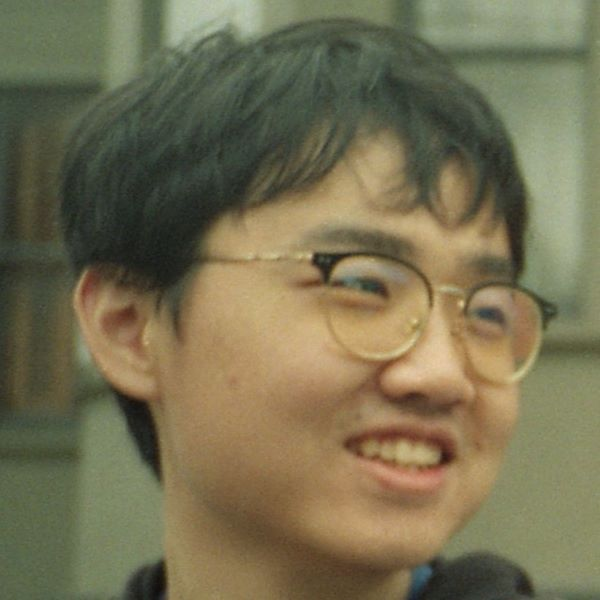
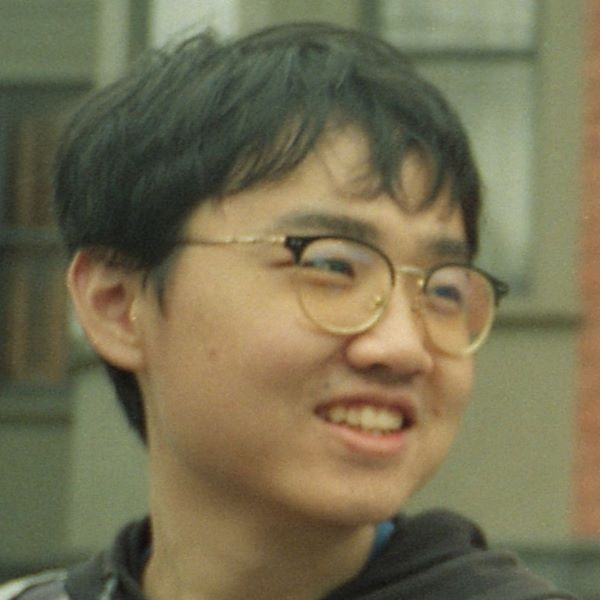
Site updated: 2024-02-05 12:34:10

diff --git a/Experience/index.html b/Experience/index.html
@@ -1,5 +1,5 @@
 <!DOCTYPE html><html lang="en"><head><meta charset="UTF-8"><meta http-equiv="X-UA-Compatible" content="IE=edge"><meta name="viewport" content="width=device-width, initial-scale=1, maximum-scale=5"><title>Fang Chen (谌放)</title><meta name="author" content="Fang Chen"><link rel="shortcut icon" href="/img/favicon.png"><link rel="stylesheet" href="/css/index.css"><link rel="stylesheet" href="https://cdn.jsdelivr.net/npm/font-awesome@latest/css/font-awesome.min.css"><link rel="stylesheet" href="https://cdn.jsdelivr.net/npm/@fortawesome/fontawesome-free@5.13.0/css/all.min.css"><meta name="generator" content="Hexo 7.1.1"><link rel="alternate" href="/atom.xml" title="Fang Chen (谌放)" type="application/atom+xml">
-</head><body><header id="page_header"><div class="header_wrap"><div id="blog_name"><a class="blog_title" id="site-name" href="/">Fang Chen (谌放)</a></div><button class="menus_icon"><div class="navicon"></div></button><ul class="menus_items"><li class="menus_item"><a class="site-page" href="/Publications"> Publications</a></li><li class="menus_item"><a class="site-page" href="/Experience"> Experience</a></li><li class="menus_item"><a class="site-page" href="/Teaching"> Teaching</a></li></ul></div></header><main id="page_main"><div class="side-card sticky"><div class="card-wrap" itemscope itemtype="http://schema.org/Person"><div class="author-avatar"><img class="avatar-img" src="/img/profile_new.jpg" onerror="this.onerror=null;this.src='/img/profile_new.jpg'" alt="avatar"></div><div class="author-discrip"><h3>Fang Chen</h3><p class="author-bio">Ph.D. student @ University of California Merced</p></div><div class="author-links"><button class="btn m-social-links">Links</button><ul class="social-icons"><li><a class="social-icon" href="https://github.com/C-Fun" target="_blank"><i class="fab fa-github" aria-hidden="true"></i></a></li><li><a class="social-icon" href="https://www.linkedin.com/in/cfun/" target="_blank"><i class="fab fa-linkedin" aria-hidden="true"></i></a></li><li><a class="social-icon" href="mailto:fchen20@ucmerced.edu" target="_blank"><i class="fas fa-envelope" aria-hidden="true"></i></a></li></ul><ul class="social-links"><li><a class="e-social-link" href="https://scholar.google.com/citations?user=5Hu8vwwAAAAJ&amp;hl=en&amp;authuser=1" target="_blank"><i class="fas fa-graduation-cap" aria-hidden="true"></i><span>Google Scholar</span></a></li></ul></div><a class="cv-links" href="/attaches/CV.pdf" target="_blank"><i class="fas fa-file-pdf" aria-hidden="true"><span>My Curriculum Vitae</span></i></a></div></div><div class="page" itemscope itemtype="http://schema.org/CreativeWork"><h2 class="page-title">Experience</h2><article><ul>
+</head><body><header id="page_header"><div class="header_wrap"><div id="blog_name"><a class="blog_title" id="site-name" href="/">Fang Chen (谌放)</a></div><button class="menus_icon"><div class="navicon"></div></button><ul class="menus_items"><li class="menus_item"><a class="site-page" href="/Publications"> Publications</a></li><li class="menus_item"><a class="site-page" href="/Experience"> Experience</a></li><li class="menus_item"><a class="site-page" href="/Teaching"> Teaching</a></li></ul></div></header><main id="page_main"><div class="side-card sticky"><div class="card-wrap" itemscope itemtype="http://schema.org/Person"><div class="author-avatar"><img class="avatar-img" src="/img/profile.jpg" onerror="this.onerror=null;this.src='/img/profile.jpg'" alt="avatar"></div><div class="author-discrip"><h3>Fang Chen</h3><p class="author-bio">Ph.D. student @ University of California Merced</p></div><div class="author-links"><button class="btn m-social-links">Links</button><ul class="social-icons"><li><a class="social-icon" href="https://github.com/C-Fun" target="_blank"><i class="fab fa-github" aria-hidden="true"></i></a></li><li><a class="social-icon" href="https://www.linkedin.com/in/cfun/" target="_blank"><i class="fab fa-linkedin" aria-hidden="true"></i></a></li><li><a class="social-icon" href="mailto:fchen20@ucmerced.edu" target="_blank"><i class="fas fa-envelope" aria-hidden="true"></i></a></li></ul><ul class="social-links"><li><a class="e-social-link" href="https://scholar.google.com/citations?user=5Hu8vwwAAAAJ&amp;hl=en&amp;authuser=1" target="_blank"><i class="fas fa-graduation-cap" aria-hidden="true"></i><span>Google Scholar</span></a></li></ul></div><a class="cv-links" href="/attaches/CV.pdf" target="_blank"><i class="fas fa-file-pdf" aria-hidden="true"><span>My Curriculum Vitae</span></i></a></div></div><div class="page" itemscope itemtype="http://schema.org/CreativeWork"><h2 class="page-title">Experience</h2><article><ul>
 <li><a target="_blank" rel="noopener" href="https://intelailabpage.github.io/"><strong>Intel AI Lab</strong></a> | Graduate Intern (May 2022 - Jan. 2023)</li>
 </ul>
 </article></div></main><div class="nav-wrap"><div class="nav"><button class="site-nav"><div class="navicon"></div></button><ul class="nav_items"><li class="nav_item"><a class="nav-page" href="/Publications"> Publications</a></li><li class="nav_item"><a class="nav-page" href="/Experience"> Experience</a></li><li class="nav_item"><a class="nav-page" href="/Teaching"> Teaching</a></li></ul></div><div class="cd-top"><i class="fa fa-arrow-up" aria-hidden="true"></i></div></div><footer id="page_footer"><div class="footer_wrap"><div class="copyright">&copy;2021 - 2024 by Fang Chen</div><div class="theme-info">Powered by <a target="_blank" href="https://hexo.io" rel="nofollow noopener">Hexo</a> & <a target="_blank" href="https://github.com/PhosphorW/hexo-theme-academia" rel="nofollow noopener">Academia Theme</a></div></div></footer><script src="https://cdn.jsdelivr.net/npm/jquery@latest/dist/jquery.min.js"></script><script src="https://cdn.jsdelivr.net/npm/jquery-pjax@latest/jquery.pjax.min.js"></script><script src="/js/main.js"></script></body></html>

diff --git a/Teaching/index.html b/Teaching/index.html
@@ -1,5 +1,5 @@
 <!DOCTYPE html><html lang="en"><head><meta charset="UTF-8"><meta http-equiv="X-UA-Compatible" content="IE=edge"><meta name="viewport" content="width=device-width, initial-scale=1, maximum-scale=5"><title>Fang Chen (谌放)</title><meta name="author" content="Fang Chen"><link rel="shortcut icon" href="/img/favicon.png"><link rel="stylesheet" href="/css/index.css"><link rel="stylesheet" href="https://cdn.jsdelivr.net/npm/font-awesome@latest/css/font-awesome.min.css"><link rel="stylesheet" href="https://cdn.jsdelivr.net/npm/@fortawesome/fontawesome-free@5.13.0/css/all.min.css"><meta name="generator" content="Hexo 7.1.1"><link rel="alternate" href="/atom.xml" title="Fang Chen (谌放)" type="application/atom+xml">
-</head><body><header id="page_header"><div class="header_wrap"><div id="blog_name"><a class="blog_title" id="site-name" href="/">Fang Chen (谌放)</a></div><button class="menus_icon"><div class="navicon"></div></button><ul class="menus_items"><li class="menus_item"><a class="site-page" href="/Publications"> Publications</a></li><li class="menus_item"><a class="site-page" href="/Experience"> Experience</a></li><li class="menus_item"><a class="site-page" href="/Teaching"> Teaching</a></li></ul></div></header><main id="page_main"><div class="side-card sticky"><div class="card-wrap" itemscope itemtype="http://schema.org/Person"><div class="author-avatar"><img class="avatar-img" src="/img/profile_new.jpg" onerror="this.onerror=null;this.src='/img/profile_new.jpg'" alt="avatar"></div><div class="author-discrip"><h3>Fang Chen</h3><p class="author-bio">Ph.D. student @ University of California Merced</p></div><div class="author-links"><button class="btn m-social-links">Links</button><ul class="social-icons"><li><a class="social-icon" href="https://github.com/C-Fun" target="_blank"><i class="fab fa-github" aria-hidden="true"></i></a></li><li><a class="social-icon" href="https://www.linkedin.com/in/cfun/" target="_blank"><i class="fab fa-linkedin" aria-hidden="true"></i></a></li><li><a class="social-icon" href="mailto:fchen20@ucmerced.edu" target="_blank"><i class="fas fa-envelope" aria-hidden="true"></i></a></li></ul><ul class="social-links"><li><a class="e-social-link" href="https://scholar.google.com/citations?user=5Hu8vwwAAAAJ&amp;hl=en&amp;authuser=1" target="_blank"><i class="fas fa-graduation-cap" aria-hidden="true"></i><span>Google Scholar</span></a></li></ul></div><a class="cv-links" href="/attaches/CV.pdf" target="_blank"><i class="fas fa-file-pdf" aria-hidden="true"><span>My Curriculum Vitae</span></i></a></div></div><div class="page" itemscope itemtype="http://schema.org/CreativeWork"><h2 class="page-title">Teaching</h2><article><ul>
+</head><body><header id="page_header"><div class="header_wrap"><div id="blog_name"><a class="blog_title" id="site-name" href="/">Fang Chen (谌放)</a></div><button class="menus_icon"><div class="navicon"></div></button><ul class="menus_items"><li class="menus_item"><a class="site-page" href="/Publications"> Publications</a></li><li class="menus_item"><a class="site-page" href="/Experience"> Experience</a></li><li class="menus_item"><a class="site-page" href="/Teaching"> Teaching</a></li></ul></div></header><main id="page_main"><div class="side-card sticky"><div class="card-wrap" itemscope itemtype="http://schema.org/Person"><div class="author-avatar"><img class="avatar-img" src="/img/profile.jpg" onerror="this.onerror=null;this.src='/img/profile.jpg'" alt="avatar"></div><div class="author-discrip"><h3>Fang Chen</h3><p class="author-bio">Ph.D. student @ University of California Merced</p></div><div class="author-links"><button class="btn m-social-links">Links</button><ul class="social-icons"><li><a class="social-icon" href="https://github.com/C-Fun" target="_blank"><i class="fab fa-github" aria-hidden="true"></i></a></li><li><a class="social-icon" href="https://www.linkedin.com/in/cfun/" target="_blank"><i class="fab fa-linkedin" aria-hidden="true"></i></a></li><li><a class="social-icon" href="mailto:fchen20@ucmerced.edu" target="_blank"><i class="fas fa-envelope" aria-hidden="true"></i></a></li></ul><ul class="social-links"><li><a class="e-social-link" href="https://scholar.google.com/citations?user=5Hu8vwwAAAAJ&amp;hl=en&amp;authuser=1" target="_blank"><i class="fas fa-graduation-cap" aria-hidden="true"></i><span>Google Scholar</span></a></li></ul></div><a class="cv-links" href="/attaches/CV.pdf" target="_blank"><i class="fas fa-file-pdf" aria-hidden="true"><span>My Curriculum Vitae</span></i></a></div></div><div class="page" itemscope itemtype="http://schema.org/CreativeWork"><h2 class="page-title">Teaching</h2><article><ul>
 <li><strong>CSE 170: Computer Graphics, Lab Session</strong> | undergraduate course, UC Merced, 2024 spring</li>
 </ul>
 </article></div></main><div class="nav-wrap"><div class="nav"><button class="site-nav"><div class="navicon"></div></button><ul class="nav_items"><li class="nav_item"><a class="nav-page" href="/Publications"> Publications</a></li><li class="nav_item"><a class="nav-page" href="/Experience"> Experience</a></li><li class="nav_item"><a class="nav-page" href="/Teaching"> Teaching</a></li></ul></div><div class="cd-top"><i class="fa fa-arrow-up" aria-hidden="true"></i></div></div><footer id="page_footer"><div class="footer_wrap"><div class="copyright">&copy;2021 - 2024 by Fang Chen</div><div class="theme-info">Powered by <a target="_blank" href="https://hexo.io" rel="nofollow noopener">Hexo</a> & <a target="_blank" href="https://github.com/PhosphorW/hexo-theme-academia" rel="nofollow noopener">Academia Theme</a></div></div></footer><script src="https://cdn.jsdelivr.net/npm/jquery@latest/dist/jquery.min.js"></script><script src="https://cdn.jsdelivr.net/npm/jquery-pjax@latest/jquery.pjax.min.js"></script><script src="/js/main.js"></script></body></html>

diff --git a/2024/01/23/About/index.html b/2024/01/23/About/index.html
@@ -1,5 +1,5 @@
 <!DOCTYPE html><html lang="en"><head><meta charset="UTF-8"><meta http-equiv="X-UA-Compatible" content="IE=edge"><meta name="viewport" content="width=device-width, initial-scale=1, maximum-scale=5"><title>Fang Chen (谌放)</title><meta name="author" content="Fang Chen"><link rel="shortcut icon" href="/img/favicon.png"><link rel="stylesheet" href="/css/index.css"><link rel="stylesheet" href="https://cdn.jsdelivr.net/npm/font-awesome@latest/css/font-awesome.min.css"><link rel="stylesheet" href="https://cdn.jsdelivr.net/npm/@fortawesome/fontawesome-free@5.13.0/css/all.min.css"><meta name="generator" content="Hexo 7.1.1"><link rel="alternate" href="/atom.xml" title="Fang Chen (谌放)" type="application/atom+xml">
-</head><body><header id="page_header"><div class="header_wrap"><div id="blog_name"><a class="blog_title" id="site-name" href="/">Fang Chen (谌放)</a></div><button class="menus_icon"><div class="navicon"></div></button><ul class="menus_items"><li class="menus_item"><a class="site-page" href="/Publications"> Publications</a></li><li class="menus_item"><a class="site-page" href="/Experience"> Experience</a></li><li class="menus_item"><a class="site-page" href="/Teaching"> Teaching</a></li></ul></div></header><main id="page_main"><div class="side-card sticky"><div class="card-wrap" itemscope itemtype="http://schema.org/Person"><div class="author-avatar"><img class="avatar-img" src="/img/profile_new.jpg" onerror="this.onerror=null;this.src='/img/profile_new.jpg'" alt="avatar"></div><div class="author-discrip"><h3>Fang Chen</h3><p class="author-bio">Ph.D. student @ University of California Merced</p></div><div class="author-links"><button class="btn m-social-links">Links</button><ul class="social-icons"><li><a class="social-icon" href="https://github.com/C-Fun" target="_blank"><i class="fab fa-github" aria-hidden="true"></i></a></li><li><a class="social-icon" href="https://www.linkedin.com/in/cfun/" target="_blank"><i class="fab fa-linkedin" aria-hidden="true"></i></a></li><li><a class="social-icon" href="mailto:fchen20@ucmerced.edu" target="_blank"><i class="fas fa-envelope" aria-hidden="true"></i></a></li></ul><ul class="social-links"><li><a class="e-social-link" href="https://scholar.google.com/citations?user=5Hu8vwwAAAAJ&amp;hl=en&amp;authuser=1" target="_blank"><i class="fas fa-graduation-cap" aria-hidden="true"></i><span>Google Scholar</span></a></li></ul></div><a class="cv-links" href="/attaches/CV.pdf" target="_blank"><i class="fas fa-file-pdf" aria-hidden="true"><span>My Curriculum Vitae</span></i></a></div></div><div class="page" itemscope itemtype="http://schema.org/CreativeWork"><h2 class="page-title">About</h2><article><h1 id="About-Me"><a href="#About-Me" class="headerlink" title="About Me"></a>About Me</h1><p> I am a first-year CS Ph.D. student at EECS of University of California Merced, supervised by <a target="_blank" rel="noopener" href="http://mengtang.org/">Prof. Meng Tang</a>. </p>
+</head><body><header id="page_header"><div class="header_wrap"><div id="blog_name"><a class="blog_title" id="site-name" href="/">Fang Chen (谌放)</a></div><button class="menus_icon"><div class="navicon"></div></button><ul class="menus_items"><li class="menus_item"><a class="site-page" href="/Publications"> Publications</a></li><li class="menus_item"><a class="site-page" href="/Experience"> Experience</a></li><li class="menus_item"><a class="site-page" href="/Teaching"> Teaching</a></li></ul></div></header><main id="page_main"><div class="side-card sticky"><div class="card-wrap" itemscope itemtype="http://schema.org/Person"><div class="author-avatar"><img class="avatar-img" src="/img/profile.jpg" onerror="this.onerror=null;this.src='/img/profile.jpg'" alt="avatar"></div><div class="author-discrip"><h3>Fang Chen</h3><p class="author-bio">Ph.D. student @ University of California Merced</p></div><div class="author-links"><button class="btn m-social-links">Links</button><ul class="social-icons"><li><a class="social-icon" href="https://github.com/C-Fun" target="_blank"><i class="fab fa-github" aria-hidden="true"></i></a></li><li><a class="social-icon" href="https://www.linkedin.com/in/cfun/" target="_blank"><i class="fab fa-linkedin" aria-hidden="true"></i></a></li><li><a class="social-icon" href="mailto:fchen20@ucmerced.edu" target="_blank"><i class="fas fa-envelope" aria-hidden="true"></i></a></li></ul><ul class="social-links"><li><a class="e-social-link" href="https://scholar.google.com/citations?user=5Hu8vwwAAAAJ&amp;hl=en&amp;authuser=1" target="_blank"><i class="fas fa-graduation-cap" aria-hidden="true"></i><span>Google Scholar</span></a></li></ul></div><a class="cv-links" href="/attaches/CV.pdf" target="_blank"><i class="fas fa-file-pdf" aria-hidden="true"><span>My Curriculum Vitae</span></i></a></div></div><div class="page" itemscope itemtype="http://schema.org/CreativeWork"><h2 class="page-title">About</h2><article><h1 id="About-Me"><a href="#About-Me" class="headerlink" title="About Me"></a>About Me</h1><p> I am a first-year CS Ph.D. student at EECS of University of California Merced, supervised by <a target="_blank" rel="noopener" href="http://mengtang.org/">Prof. Meng Tang</a>. </p>
 <p> Previously, I received my M.S. degree in Electrical Engineering at University of Southern California, working with <a target="_blank" rel="noopener" href="https://sites.usc.edu/eessc/">EESSC</a>.<br> I received my B.E. degree in Digital Media Technology at Chongqing University of Posts and Telecommunications, supervised by <a target="_blank" rel="noopener" href="https://gaocq.github.io/">Prof. Chenqiang Gao</a>.</p>
 <p> My research interests are computer vision and efficient deep learning. More specifically,</p>
 <ul>

diff --git a/archives/2024/01/index.html b/archives/2024/01/index.html
@@ -1,5 +1,5 @@
 <!DOCTYPE html><html lang="en"><head><meta charset="UTF-8"><meta http-equiv="X-UA-Compatible" content="IE=edge"><meta name="viewport" content="width=device-width, initial-scale=1, maximum-scale=5"><title>Fang Chen (谌放)</title><meta name="author" content="Fang Chen"><link rel="shortcut icon" href="/img/favicon.png"><link rel="stylesheet" href="/css/index.css"><link rel="stylesheet" href="https://cdn.jsdelivr.net/npm/font-awesome@latest/css/font-awesome.min.css"><link rel="stylesheet" href="https://cdn.jsdelivr.net/npm/@fortawesome/fontawesome-free@5.13.0/css/all.min.css"><meta name="generator" content="Hexo 7.1.1"><link rel="alternate" href="/atom.xml" title="Fang Chen (谌放)" type="application/atom+xml">
-</head><body><header id="page_header"><div class="header_wrap"><div id="blog_name"><a class="blog_title" id="site-name" href="/">Fang Chen (谌放)</a></div><button class="menus_icon"><div class="navicon"></div></button><ul class="menus_items"><li class="menus_item"><a class="site-page" href="/Publications"> Publications</a></li><li class="menus_item"><a class="site-page" href="/Experience"> Experience</a></li><li class="menus_item"><a class="site-page" href="/Teaching"> Teaching</a></li></ul></div></header><main id="page_main"><div class="side-card sticky"><div class="card-wrap" itemscope itemtype="http://schema.org/Person"><div class="author-avatar"><img class="avatar-img" src="/img/profile_new.jpg" onerror="this.onerror=null;this.src='/img/profile_new.jpg'" alt="avatar"></div><div class="author-discrip"><h3>Fang Chen</h3><p class="author-bio">Ph.D. student @ University of California Merced</p></div><div class="author-links"><button class="btn m-social-links">Links</button><ul class="social-icons"><li><a class="social-icon" href="https://github.com/C-Fun" target="_blank"><i class="fab fa-github" aria-hidden="true"></i></a></li><li><a class="social-icon" href="https://www.linkedin.com/in/cfun/" target="_blank"><i class="fab fa-linkedin" aria-hidden="true"></i></a></li><li><a class="social-icon" href="mailto:fchen20@ucmerced.edu" target="_blank"><i class="fas fa-envelope" aria-hidden="true"></i></a></li></ul><ul class="social-links"><li><a class="e-social-link" href="https://scholar.google.com/citations?user=5Hu8vwwAAAAJ&amp;hl=en&amp;authuser=1" target="_blank"><i class="fas fa-graduation-cap" aria-hidden="true"></i><span>Google Scholar</span></a></li></ul></div><a class="cv-links" href="/attaches/CV.pdf" target="_blank"><i class="fas fa-file-pdf" aria-hidden="true"><span>My Curriculum Vitae</span></i></a></div></div><div class="page" itemscope itemtype="http://schema.org/CreativeWork"><article><h1 id="About-Me"><a href="#About-Me" class="headerlink" title="About Me"></a>About Me</h1><p> I am a first-year CS Ph.D. student at EECS of University of California Merced, supervised by <a target="_blank" rel="noopener" href="http://mengtang.org/">Prof. Meng Tang</a>. </p>
+</head><body><header id="page_header"><div class="header_wrap"><div id="blog_name"><a class="blog_title" id="site-name" href="/">Fang Chen (谌放)</a></div><button class="menus_icon"><div class="navicon"></div></button><ul class="menus_items"><li class="menus_item"><a class="site-page" href="/Publications"> Publications</a></li><li class="menus_item"><a class="site-page" href="/Experience"> Experience</a></li><li class="menus_item"><a class="site-page" href="/Teaching"> Teaching</a></li></ul></div></header><main id="page_main"><div class="side-card sticky"><div class="card-wrap" itemscope itemtype="http://schema.org/Person"><div class="author-avatar"><img class="avatar-img" src="/img/profile.jpg" onerror="this.onerror=null;this.src='/img/profile.jpg'" alt="avatar"></div><div class="author-discrip"><h3>Fang Chen</h3><p class="author-bio">Ph.D. student @ University of California Merced</p></div><div class="author-links"><button class="btn m-social-links">Links</button><ul class="social-icons"><li><a class="social-icon" href="https://github.com/C-Fun" target="_blank"><i class="fab fa-github" aria-hidden="true"></i></a></li><li><a class="social-icon" href="https://www.linkedin.com/in/cfun/" target="_blank"><i class="fab fa-linkedin" aria-hidden="true"></i></a></li><li><a class="social-icon" href="mailto:fchen20@ucmerced.edu" target="_blank"><i class="fas fa-envelope" aria-hidden="true"></i></a></li></ul><ul class="social-links"><li><a class="e-social-link" href="https://scholar.google.com/citations?user=5Hu8vwwAAAAJ&amp;hl=en&amp;authuser=1" target="_blank"><i class="fas fa-graduation-cap" aria-hidden="true"></i><span>Google Scholar</span></a></li></ul></div><a class="cv-links" href="/attaches/CV.pdf" target="_blank"><i class="fas fa-file-pdf" aria-hidden="true"><span>My Curriculum Vitae</span></i></a></div></div><div class="page" itemscope itemtype="http://schema.org/CreativeWork"><article><h1 id="About-Me"><a href="#About-Me" class="headerlink" title="About Me"></a>About Me</h1><p> I am a first-year CS Ph.D. student at EECS of University of California Merced, supervised by <a target="_blank" rel="noopener" href="http://mengtang.org/">Prof. Meng Tang</a>. </p>
 <p> Previously, I received my M.S. degree in Electrical Engineering at University of Southern California, working with <a target="_blank" rel="noopener" href="https://sites.usc.edu/eessc/">EESSC</a>.<br> I received my B.E. degree in Digital Media Technology at Chongqing University of Posts and Telecommunications, supervised by <a target="_blank" rel="noopener" href="https://gaocq.github.io/">Prof. Chenqiang Gao</a>.</p>
 <p> My research interests are computer vision and efficient deep learning. More specifically,</p>
 <ul>

diff --git a/archives/2024/index.html b/archives/2024/index.html
@@ -1,5 +1,5 @@
 <!DOCTYPE html><html lang="en"><head><meta charset="UTF-8"><meta http-equiv="X-UA-Compatible" content="IE=edge"><meta name="viewport" content="width=device-width, initial-scale=1, maximum-scale=5"><title>Fang Chen (谌放)</title><meta name="author" content="Fang Chen"><link rel="shortcut icon" href="/img/favicon.png"><link rel="stylesheet" href="/css/index.css"><link rel="stylesheet" href="https://cdn.jsdelivr.net/npm/font-awesome@latest/css/font-awesome.min.css"><link rel="stylesheet" href="https://cdn.jsdelivr.net/npm/@fortawesome/fontawesome-free@5.13.0/css/all.min.css"><meta name="generator" content="Hexo 7.1.1"><link rel="alternate" href="/atom.xml" title="Fang Chen (谌放)" type="application/atom+xml">
-</head><body><header id="page_header"><div class="header_wrap"><div id="blog_name"><a class="blog_title" id="site-name" href="/">Fang Chen (谌放)</a></div><button class="menus_icon"><div class="navicon"></div></button><ul class="menus_items"><li class="menus_item"><a class="site-page" href="/Publications"> Publications</a></li><li class="menus_item"><a class="site-page" href="/Experience"> Experience</a></li><li class="menus_item"><a class="site-page" href="/Teaching"> Teaching</a></li></ul></div></header><main id="page_main"><div class="side-card sticky"><div class="card-wrap" itemscope itemtype="http://schema.org/Person"><div class="author-avatar"><img class="avatar-img" src="/img/profile_new.jpg" onerror="this.onerror=null;this.src='/img/profile_new.jpg'" alt="avatar"></div><div class="author-discrip"><h3>Fang Chen</h3><p class="author-bio">Ph.D. student @ University of California Merced</p></div><div class="author-links"><button class="btn m-social-links">Links</button><ul class="social-icons"><li><a class="social-icon" href="https://github.com/C-Fun" target="_blank"><i class="fab fa-github" aria-hidden="true"></i></a></li><li><a class="social-icon" href="https://www.linkedin.com/in/cfun/" target="_blank"><i class="fab fa-linkedin" aria-hidden="true"></i></a></li><li><a class="social-icon" href="mailto:fchen20@ucmerced.edu" target="_blank"><i class="fas fa-envelope" aria-hidden="true"></i></a></li></ul><ul class="social-links"><li><a class="e-social-link" href="https://scholar.google.com/citations?user=5Hu8vwwAAAAJ&amp;hl=en&amp;authuser=1" target="_blank"><i class="fas fa-graduation-cap" aria-hidden="true"></i><span>Google Scholar</span></a></li></ul></div><a class="cv-links" href="/attaches/CV.pdf" target="_blank"><i class="fas fa-file-pdf" aria-hidden="true"><span>My Curriculum Vitae</span></i></a></div></div><div class="page" itemscope itemtype="http://schema.org/CreativeWork"><article><h1 id="About-Me"><a href="#About-Me" class="headerlink" title="About Me"></a>About Me</h1><p> I am a first-year CS Ph.D. student at EECS of University of California Merced, supervised by <a target="_blank" rel="noopener" href="http://mengtang.org/">Prof. Meng Tang</a>. </p>
+</head><body><header id="page_header"><div class="header_wrap"><div id="blog_name"><a class="blog_title" id="site-name" href="/">Fang Chen (谌放)</a></div><button class="menus_icon"><div class="navicon"></div></button><ul class="menus_items"><li class="menus_item"><a class="site-page" href="/Publications"> Publications</a></li><li class="menus_item"><a class="site-page" href="/Experience"> Experience</a></li><li class="menus_item"><a class="site-page" href="/Teaching"> Teaching</a></li></ul></div></header><main id="page_main"><div class="side-card sticky"><div class="card-wrap" itemscope itemtype="http://schema.org/Person"><div class="author-avatar"><img class="avatar-img" src="/img/profile.jpg" onerror="this.onerror=null;this.src='/img/profile.jpg'" alt="avatar"></div><div class="author-discrip"><h3>Fang Chen</h3><p class="author-bio">Ph.D. student @ University of California Merced</p></div><div class="author-links"><button class="btn m-social-links">Links</button><ul class="social-icons"><li><a class="social-icon" href="https://github.com/C-Fun" target="_blank"><i class="fab fa-github" aria-hidden="true"></i></a></li><li><a class="social-icon" href="https://www.linkedin.com/in/cfun/" target="_blank"><i class="fab fa-linkedin" aria-hidden="true"></i></a></li><li><a class="social-icon" href="mailto:fchen20@ucmerced.edu" target="_blank"><i class="fas fa-envelope" aria-hidden="true"></i></a></li></ul><ul class="social-links"><li><a class="e-social-link" href="https://scholar.google.com/citations?user=5Hu8vwwAAAAJ&amp;hl=en&amp;authuser=1" target="_blank"><i class="fas fa-graduation-cap" aria-hidden="true"></i><span>Google Scholar</span></a></li></ul></div><a class="cv-links" href="/attaches/CV.pdf" target="_blank"><i class="fas fa-file-pdf" aria-hidden="true"><span>My Curriculum Vitae</span></i></a></div></div><div class="page" itemscope itemtype="http://schema.org/CreativeWork"><article><h1 id="About-Me"><a href="#About-Me" class="headerlink" title="About Me"></a>About Me</h1><p> I am a first-year CS Ph.D. student at EECS of University of California Merced, supervised by <a target="_blank" rel="noopener" href="http://mengtang.org/">Prof. Meng Tang</a>. </p>
 <p> Previously, I received my M.S. degree in Electrical Engineering at University of Southern California, working with <a target="_blank" rel="noopener" href="https://sites.usc.edu/eessc/">EESSC</a>.<br> I received my B.E. degree in Digital Media Technology at Chongqing University of Posts and Telecommunications, supervised by <a target="_blank" rel="noopener" href="https://gaocq.github.io/">Prof. Chenqiang Gao</a>.</p>
 <p> My research interests are computer vision and efficient deep learning. More specifically,</p>
 <ul>

diff --git a/archives/index.html b/archives/index.html
@@ -1,5 +1,5 @@
 <!DOCTYPE html><html lang="en"><head><meta charset="UTF-8"><meta http-equiv="X-UA-Compatible" content="IE=edge"><meta name="viewport" content="width=device-width, initial-scale=1, maximum-scale=5"><title>Fang Chen (谌放)</title><meta name="author" content="Fang Chen"><link rel="shortcut icon" href="/img/favicon.png"><link rel="stylesheet" href="/css/index.css"><link rel="stylesheet" href="https://cdn.jsdelivr.net/npm/font-awesome@latest/css/font-awesome.min.css"><link rel="stylesheet" href="https://cdn.jsdelivr.net/npm/@fortawesome/fontawesome-free@5.13.0/css/all.min.css"><meta name="generator" content="Hexo 7.1.1"><link rel="alternate" href="/atom.xml" title="Fang Chen (谌放)" type="application/atom+xml">
-</head><body><header id="page_header"><div class="header_wrap"><div id="blog_name"><a class="blog_title" id="site-name" href="/">Fang Chen (谌放)</a></div><button class="menus_icon"><div class="navicon"></div></button><ul class="menus_items"><li class="menus_item"><a class="site-page" href="/Publications"> Publications</a></li><li class="menus_item"><a class="site-page" href="/Experience"> Experience</a></li><li class="menus_item"><a class="site-page" href="/Teaching"> Teaching</a></li></ul></div></header><main id="page_main"><div class="side-card sticky"><div class="card-wrap" itemscope itemtype="http://schema.org/Person"><div class="author-avatar"><img class="avatar-img" src="/img/profile_new.jpg" onerror="this.onerror=null;this.src='/img/profile_new.jpg'" alt="avatar"></div><div class="author-discrip"><h3>Fang Chen</h3><p class="author-bio">Ph.D. student @ University of California Merced</p></div><div class="author-links"><button class="btn m-social-links">Links</button><ul class="social-icons"><li><a class="social-icon" href="https://github.com/C-Fun" target="_blank"><i class="fab fa-github" aria-hidden="true"></i></a></li><li><a class="social-icon" href="https://www.linkedin.com/in/cfun/" target="_blank"><i class="fab fa-linkedin" aria-hidden="true"></i></a></li><li><a class="social-icon" href="mailto:fchen20@ucmerced.edu" target="_blank"><i class="fas fa-envelope" aria-hidden="true"></i></a></li></ul><ul class="social-links"><li><a class="e-social-link" href="https://scholar.google.com/citations?user=5Hu8vwwAAAAJ&amp;hl=en&amp;authuser=1" target="_blank"><i class="fas fa-graduation-cap" aria-hidden="true"></i><span>Google Scholar</span></a></li></ul></div><a class="cv-links" href="/attaches/CV.pdf" target="_blank"><i class="fas fa-file-pdf" aria-hidden="true"><span>My Curriculum Vitae</span></i></a></div></div><div class="page" itemscope itemtype="http://schema.org/CreativeWork"><article><h1 id="About-Me"><a href="#About-Me" class="headerlink" title="About Me"></a>About Me</h1><p> I am a first-year CS Ph.D. student at EECS of University of California Merced, supervised by <a target="_blank" rel="noopener" href="http://mengtang.org/">Prof. Meng Tang</a>. </p>
+</head><body><header id="page_header"><div class="header_wrap"><div id="blog_name"><a class="blog_title" id="site-name" href="/">Fang Chen (谌放)</a></div><button class="menus_icon"><div class="navicon"></div></button><ul class="menus_items"><li class="menus_item"><a class="site-page" href="/Publications"> Publications</a></li><li class="menus_item"><a class="site-page" href="/Experience"> Experience</a></li><li class="menus_item"><a class="site-page" href="/Teaching"> Teaching</a></li></ul></div></header><main id="page_main"><div class="side-card sticky"><div class="card-wrap" itemscope itemtype="http://schema.org/Person"><div class="author-avatar"><img class="avatar-img" src="/img/profile.jpg" onerror="this.onerror=null;this.src='/img/profile.jpg'" alt="avatar"></div><div class="author-discrip"><h3>Fang Chen</h3><p class="author-bio">Ph.D. student @ University of California Merced</p></div><div class="author-links"><button class="btn m-social-links">Links</button><ul class="social-icons"><li><a class="social-icon" href="https://github.com/C-Fun" target="_blank"><i class="fab fa-github" aria-hidden="true"></i></a></li><li><a class="social-icon" href="https://www.linkedin.com/in/cfun/" target="_blank"><i class="fab fa-linkedin" aria-hidden="true"></i></a></li><li><a class="social-icon" href="mailto:fchen20@ucmerced.edu" target="_blank"><i class="fas fa-envelope" aria-hidden="true"></i></a></li></ul><ul class="social-links"><li><a class="e-social-link" href="https://scholar.google.com/citations?user=5Hu8vwwAAAAJ&amp;hl=en&amp;authuser=1" target="_blank"><i class="fas fa-graduation-cap" aria-hidden="true"></i><span>Google Scholar</span></a></li></ul></div><a class="cv-links" href="/attaches/CV.pdf" target="_blank"><i class="fas fa-file-pdf" aria-hidden="true"><span>My Curriculum Vitae</span></i></a></div></div><div class="page" itemscope itemtype="http://schema.org/CreativeWork"><article><h1 id="About-Me"><a href="#About-Me" class="headerlink" title="About Me"></a>About Me</h1><p> I am a first-year CS Ph.D. student at EECS of University of California Merced, supervised by <a target="_blank" rel="noopener" href="http://mengtang.org/">Prof. Meng Tang</a>. </p>
 <p> Previously, I received my M.S. degree in Electrical Engineering at University of Southern California, working with <a target="_blank" rel="noopener" href="https://sites.usc.edu/eessc/">EESSC</a>.<br> I received my B.E. degree in Digital Media Technology at Chongqing University of Posts and Telecommunications, supervised by <a target="_blank" rel="noopener" href="https://gaocq.github.io/">Prof. Chenqiang Gao</a>.</p>
 <p> My research interests are computer vision and efficient deep learning. More specifically,</p>
 <ul>

diff --git a/index.html b/index.html
@@ -1,5 +1,5 @@
 <!DOCTYPE html><html lang="en"><head><meta charset="UTF-8"><meta http-equiv="X-UA-Compatible" content="IE=edge"><meta name="viewport" content="width=device-width, initial-scale=1, maximum-scale=5"><title>Fang Chen (谌放)</title><meta name="author" content="Fang Chen"><link rel="shortcut icon" href="/img/favicon.png"><link rel="stylesheet" href="/css/index.css"><link rel="stylesheet" href="https://cdn.jsdelivr.net/npm/font-awesome@latest/css/font-awesome.min.css"><link rel="stylesheet" href="https://cdn.jsdelivr.net/npm/@fortawesome/fontawesome-free@5.13.0/css/all.min.css"><meta name="generator" content="Hexo 7.1.1"><link rel="alternate" href="/atom.xml" title="Fang Chen (谌放)" type="application/atom+xml">
-</head><body><header id="page_header"><div class="header_wrap"><div id="blog_name"><a class="blog_title" id="site-name" href="/">Fang Chen (谌放)</a></div><button class="menus_icon"><div class="navicon"></div></button><ul class="menus_items"><li class="menus_item"><a class="site-page" href="/Publications"> Publications</a></li><li class="menus_item"><a class="site-page" href="/Experience"> Experience</a></li><li class="menus_item"><a class="site-page" href="/Teaching"> Teaching</a></li></ul></div></header><main id="page_main"><div class="side-card sticky"><div class="card-wrap" itemscope itemtype="http://schema.org/Person"><div class="author-avatar"><img class="avatar-img" src="/img/profile_new.jpg" onerror="this.onerror=null;this.src='/img/profile_new.jpg'" alt="avatar"></div><div class="author-discrip"><h3>Fang Chen</h3><p class="author-bio">Ph.D. student @ University of California Merced</p></div><div class="author-links"><button class="btn m-social-links">Links</button><ul class="social-icons"><li><a class="social-icon" href="https://github.com/C-Fun" target="_blank"><i class="fab fa-github" aria-hidden="true"></i></a></li><li><a class="social-icon" href="https://www.linkedin.com/in/cfun/" target="_blank"><i class="fab fa-linkedin" aria-hidden="true"></i></a></li><li><a class="social-icon" href="mailto:fchen20@ucmerced.edu" target="_blank"><i class="fas fa-envelope" aria-hidden="true"></i></a></li></ul><ul class="social-links"><li><a class="e-social-link" href="https://scholar.google.com/citations?user=5Hu8vwwAAAAJ&amp;hl=en&amp;authuser=1" target="_blank"><i class="fas fa-graduation-cap" aria-hidden="true"></i><span>Google Scholar</span></a></li></ul></div><a class="cv-links" href="/attaches/CV.pdf" target="_blank"><i class="fas fa-file-pdf" aria-hidden="true"><span>My Curriculum Vitae</span></i></a></div></div><div class="page" itemscope itemtype="http://schema.org/CreativeWork"><article><h1 id="About-Me"><a href="#About-Me" class="headerlink" title="About Me"></a>About Me</h1><p> I am a first-year CS Ph.D. student at EECS of University of California Merced, supervised by <a target="_blank" rel="noopener" href="http://mengtang.org/">Prof. Meng Tang</a>. </p>
+</head><body><header id="page_header"><div class="header_wrap"><div id="blog_name"><a class="blog_title" id="site-name" href="/">Fang Chen (谌放)</a></div><button class="menus_icon"><div class="navicon"></div></button><ul class="menus_items"><li class="menus_item"><a class="site-page" href="/Publications"> Publications</a></li><li class="menus_item"><a class="site-page" href="/Experience"> Experience</a></li><li class="menus_item"><a class="site-page" href="/Teaching"> Teaching</a></li></ul></div></header><main id="page_main"><div class="side-card sticky"><div class="card-wrap" itemscope itemtype="http://schema.org/Person"><div class="author-avatar"><img class="avatar-img" src="/img/profile.jpg" onerror="this.onerror=null;this.src='/img/profile.jpg'" alt="avatar"></div><div class="author-discrip"><h3>Fang Chen</h3><p class="author-bio">Ph.D. student @ University of California Merced</p></div><div class="author-links"><button class="btn m-social-links">Links</button><ul class="social-icons"><li><a class="social-icon" href="https://github.com/C-Fun" target="_blank"><i class="fab fa-github" aria-hidden="true"></i></a></li><li><a class="social-icon" href="https://www.linkedin.com/in/cfun/" target="_blank"><i class="fab fa-linkedin" aria-hidden="true"></i></a></li><li><a class="social-icon" href="mailto:fchen20@ucmerced.edu" target="_blank"><i class="fas fa-envelope" aria-hidden="true"></i></a></li></ul><ul class="social-links"><li><a class="e-social-link" href="https://scholar.google.com/citations?user=5Hu8vwwAAAAJ&amp;hl=en&amp;authuser=1" target="_blank"><i class="fas fa-graduation-cap" aria-hidden="true"></i><span>Google Scholar</span></a></li></ul></div><a class="cv-links" href="/attaches/CV.pdf" target="_blank"><i class="fas fa-file-pdf" aria-hidden="true"><span>My Curriculum Vitae</span></i></a></div></div><div class="page" itemscope itemtype="http://schema.org/CreativeWork"><article><h1 id="About-Me"><a href="#About-Me" class="headerlink" title="About Me"></a>About Me</h1><p> I am a first-year CS Ph.D. student at EECS of University of California Merced, supervised by <a target="_blank" rel="noopener" href="http://mengtang.org/">Prof. Meng Tang</a>. </p>
 <p> Previously, I received my M.S. degree in Electrical Engineering at University of Southern California, working with <a target="_blank" rel="noopener" href="https://sites.usc.edu/eessc/">EESSC</a>.<br> I received my B.E. degree in Digital Media Technology at Chongqing University of Posts and Telecommunications, supervised by <a target="_blank" rel="noopener" href="https://gaocq.github.io/">Prof. Chenqiang Gao</a>.</p>
 <p> My research interests are computer vision and efficient deep learning. More specifically,</p>
 <ul>

diff --git a/Publications/index.html b/Publications/index.html
@@ -1,5 +1,5 @@
 <!DOCTYPE html><html lang="en"><head><meta charset="UTF-8"><meta http-equiv="X-UA-Compatible" content="IE=edge"><meta name="viewport" content="width=device-width, initial-scale=1, maximum-scale=5"><title>Fang Chen (谌放)</title><meta name="author" content="Fang Chen"><link rel="shortcut icon" href="/img/favicon.png"><link rel="stylesheet" href="/css/index.css"><link rel="stylesheet" href="https://cdn.jsdelivr.net/npm/font-awesome@latest/css/font-awesome.min.css"><link rel="stylesheet" href="https://cdn.jsdelivr.net/npm/@fortawesome/fontawesome-free@5.13.0/css/all.min.css"><meta name="generator" content="Hexo 7.1.1"><link rel="alternate" href="/atom.xml" title="Fang Chen (谌放)" type="application/atom+xml">
-</head><body><header id="page_header"><div class="header_wrap"><div id="blog_name"><a class="blog_title" id="site-name" href="/">Fang Chen (谌放)</a></div><button class="menus_icon"><div class="navicon"></div></button><ul class="menus_items"><li class="menus_item"><a class="site-page" href="/Publications"> Publications</a></li><li class="menus_item"><a class="site-page" href="/Experience"> Experience</a></li><li class="menus_item"><a class="site-page" href="/Teaching"> Teaching</a></li></ul></div></header><main id="page_main"><div class="side-card sticky"><div class="card-wrap" itemscope itemtype="http://schema.org/Person"><div class="author-avatar"><img class="avatar-img" src="/img/profile_new.jpg" onerror="this.onerror=null;this.src='/img/profile_new.jpg'" alt="avatar"></div><div class="author-discrip"><h3>Fang Chen</h3><p class="author-bio">Ph.D. student @ University of California Merced</p></div><div class="author-links"><button class="btn m-social-links">Links</button><ul class="social-icons"><li><a class="social-icon" href="https://github.com/C-Fun" target="_blank"><i class="fab fa-github" aria-hidden="true"></i></a></li><li><a class="social-icon" href="https://www.linkedin.com/in/cfun/" target="_blank"><i class="fab fa-linkedin" aria-hidden="true"></i></a></li><li><a class="social-icon" href="mailto:fchen20@ucmerced.edu" target="_blank"><i class="fas fa-envelope" aria-hidden="true"></i></a></li></ul><ul class="social-links"><li><a class="e-social-link" href="https://scholar.google.com/citations?user=5Hu8vwwAAAAJ&amp;hl=en&amp;authuser=1" target="_blank"><i class="fas fa-graduation-cap" aria-hidden="true"></i><span>Google Scholar</span></a></li></ul></div><a class="cv-links" href="/attaches/CV.pdf" target="_blank"><i class="fas fa-file-pdf" aria-hidden="true"><span>My Curriculum Vitae</span></i></a></div></div><div class="page" itemscope itemtype="http://schema.org/CreativeWork"><h2 class="page-title">Publications</h2><article><ul>
+</head><body><header id="page_header"><div class="header_wrap"><div id="blog_name"><a class="blog_title" id="site-name" href="/">Fang Chen (谌放)</a></div><button class="menus_icon"><div class="navicon"></div></button><ul class="menus_items"><li class="menus_item"><a class="site-page" href="/Publications"> Publications</a></li><li class="menus_item"><a class="site-page" href="/Experience"> Experience</a></li><li class="menus_item"><a class="site-page" href="/Teaching"> Teaching</a></li></ul></div></header><main id="page_main"><div class="side-card sticky"><div class="card-wrap" itemscope itemtype="http://schema.org/Person"><div class="author-avatar"><img class="avatar-img" src="/img/profile.jpg" onerror="this.onerror=null;this.src='/img/profile.jpg'" alt="avatar"></div><div class="author-discrip"><h3>Fang Chen</h3><p class="author-bio">Ph.D. student @ University of California Merced</p></div><div class="author-links"><button class="btn m-social-links">Links</button><ul class="social-icons"><li><a class="social-icon" href="https://github.com/C-Fun" target="_blank"><i class="fab fa-github" aria-hidden="true"></i></a></li><li><a class="social-icon" href="https://www.linkedin.com/in/cfun/" target="_blank"><i class="fab fa-linkedin" aria-hidden="true"></i></a></li><li><a class="social-icon" href="mailto:fchen20@ucmerced.edu" target="_blank"><i class="fas fa-envelope" aria-hidden="true"></i></a></li></ul><ul class="social-links"><li><a class="e-social-link" href="https://scholar.google.com/citations?user=5Hu8vwwAAAAJ&amp;hl=en&amp;authuser=1" target="_blank"><i class="fas fa-graduation-cap" aria-hidden="true"></i><span>Google Scholar</span></a></li></ul></div><a class="cv-links" href="/attaches/CV.pdf" target="_blank"><i class="fas fa-file-pdf" aria-hidden="true"><span>My Curriculum Vitae</span></i></a></div></div><div class="page" itemscope itemtype="http://schema.org/CreativeWork"><h2 class="page-title">Publications</h2><article><ul>
 <li><p><a href=""><strong>Simq-nas: Simultaneous quantization policy and neural architecture search</strong></a> | <a target="_blank" rel="noopener" href="https://arxiv.org/abs/2312.13301">arxiv</a><br><em>Sharath Nittur Sridhar, Maciej Szankin, <strong>Fang Chen</strong>, Sairam Sundaresan, Anthony Sarah</em><br>AAAI Edge Intelligence Workshop, 2024</p>
 </li>
 <li><p><a target="_blank" rel="noopener" href="https://ieeexplore.ieee.org/abstract/document/10298041"><strong>Infrared Small and Dim Target Detection With Transformer Under Complex Backgrounds</strong></a> | <a target="_blank" rel="noopener" href="https://arxiv.org/abs/2109.14379">arxiv</a><br><em>Fangcen Liu, Chenqiang Gao, <strong>Fang Chen</strong>, Deyu Meng, Wangmeng Zuo, Xinbo Gao</em><br>IEEE Transactions on Image Processing, 2023</p>
